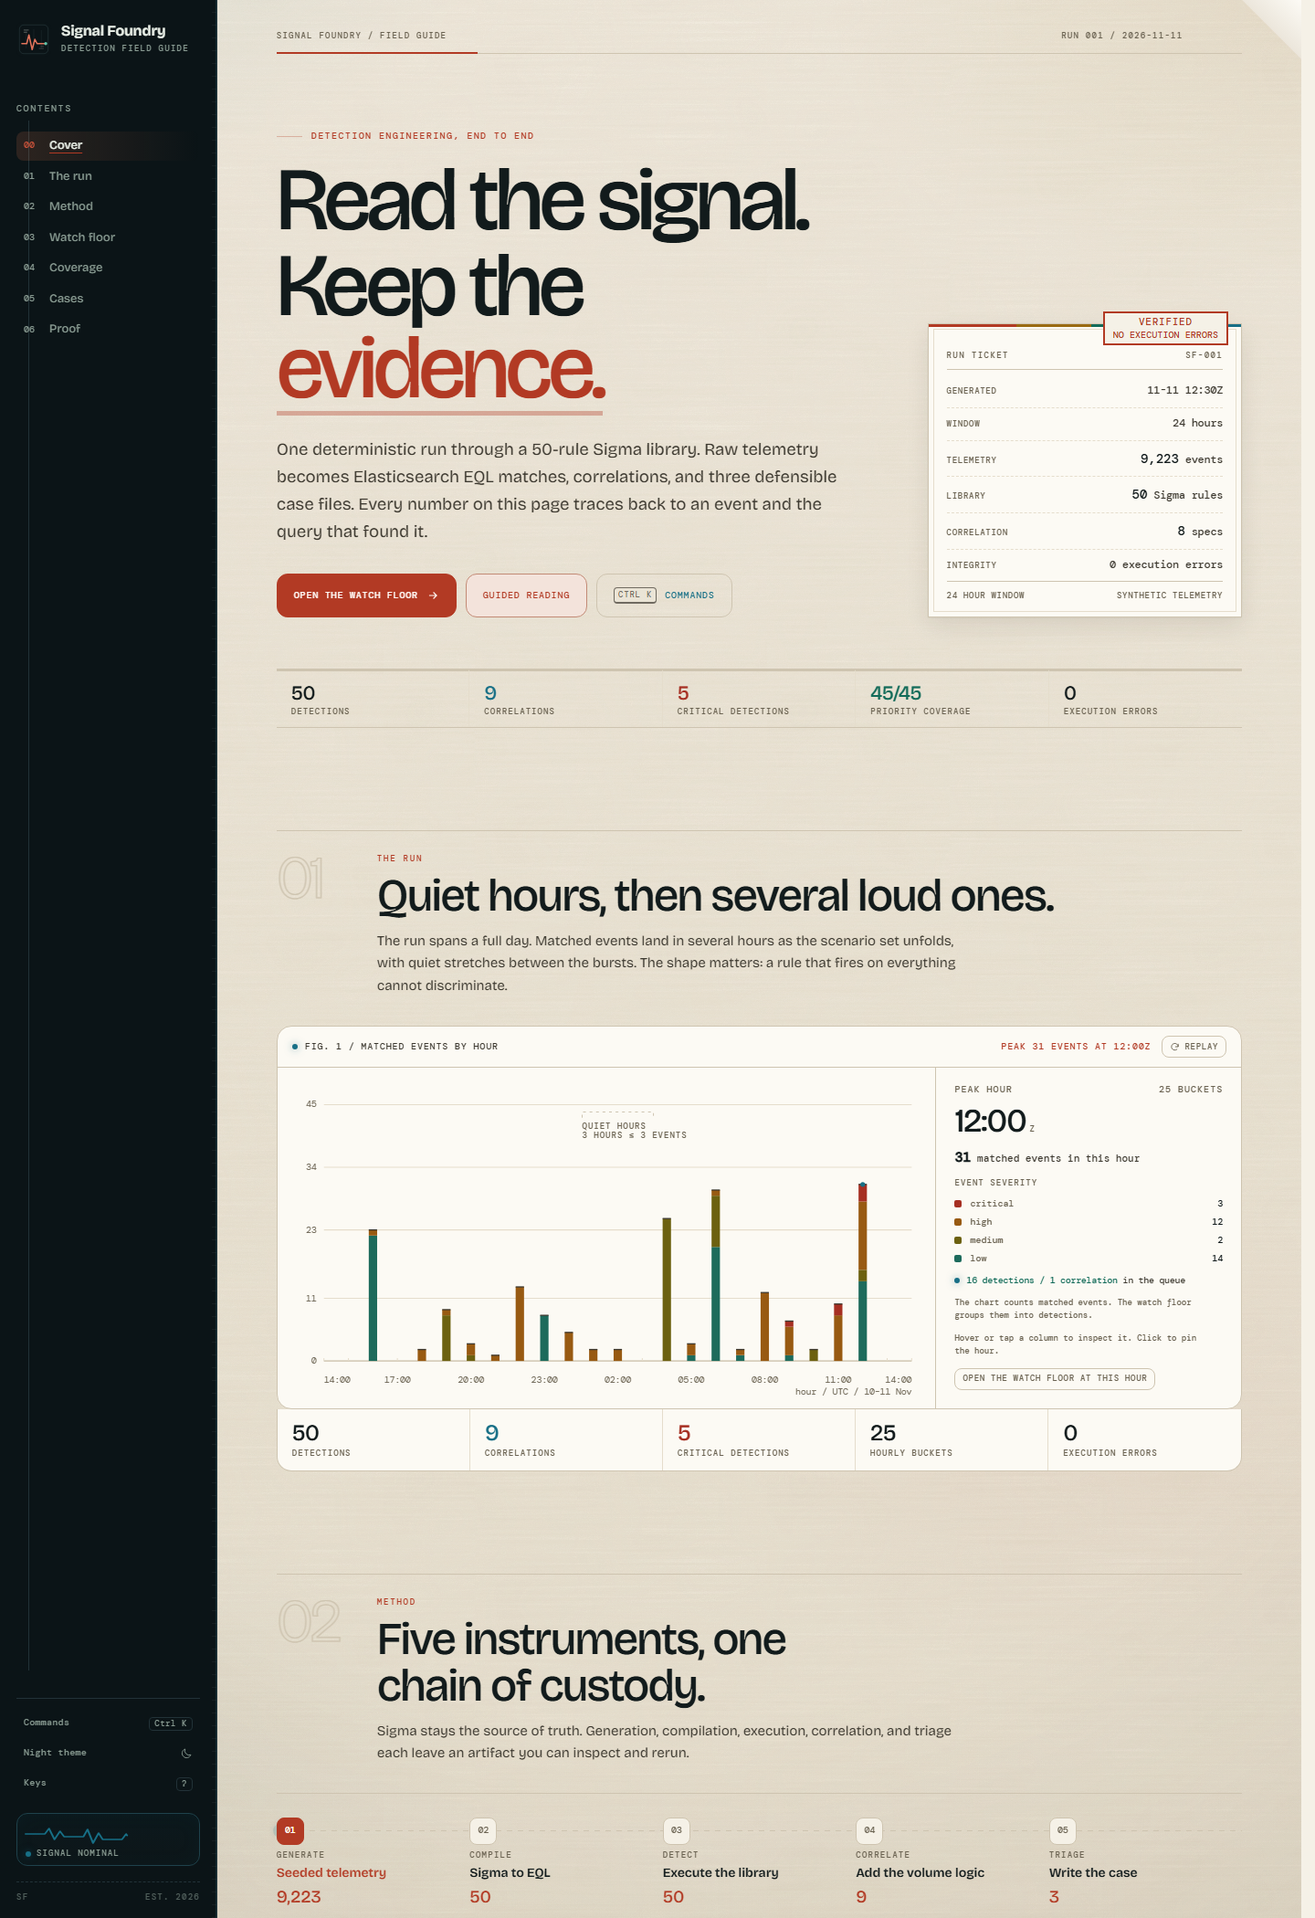
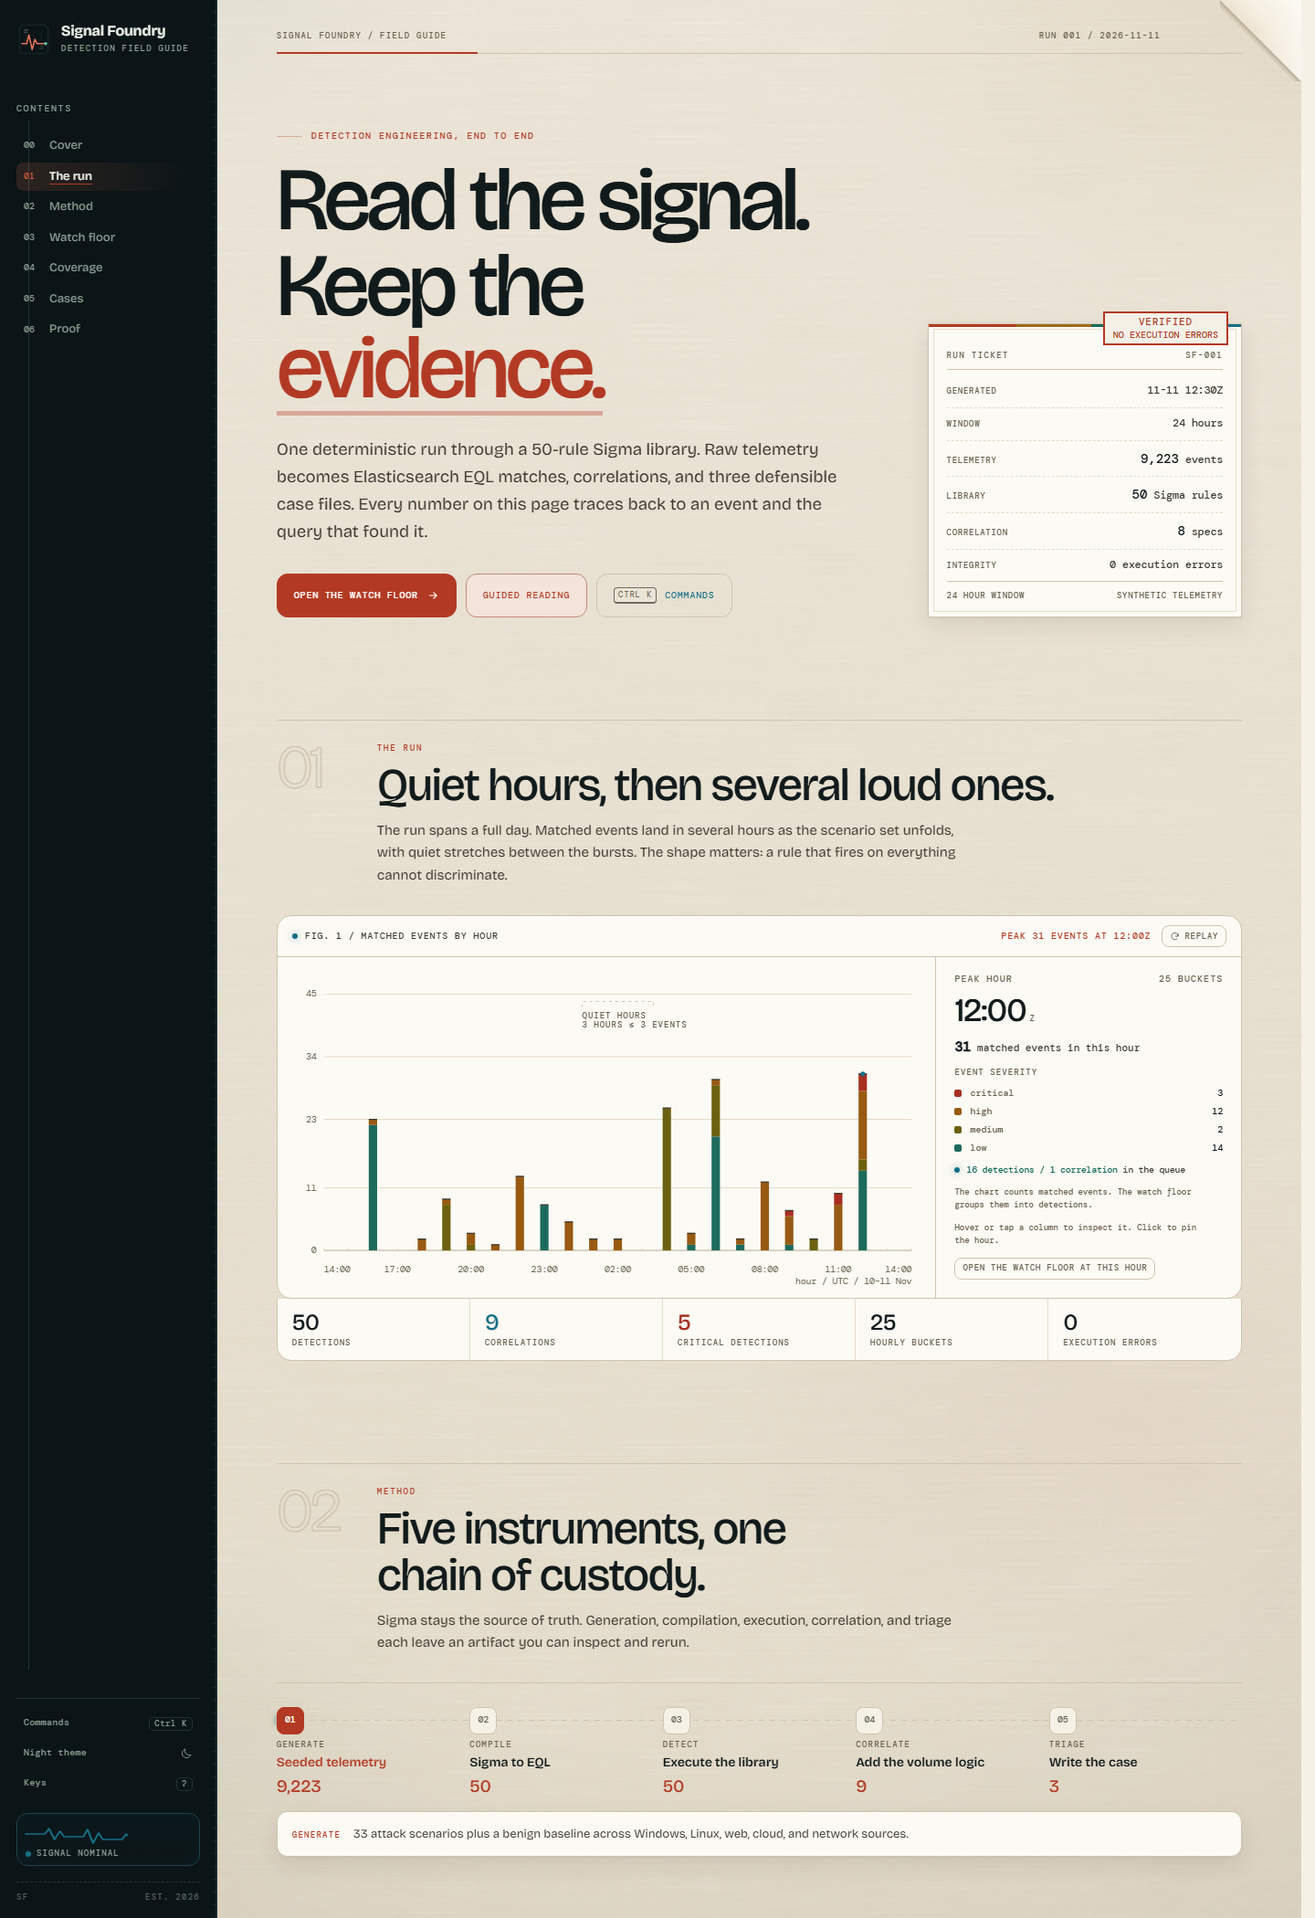
Animate the paper fold and drop the duplicate cover stats
Remove the cover stat row so the run totals appear once, in the run section, and delete the dead cover-foot and cf styles.

Enlarge the folded corner, give it a lit paper-back gradient and a crease shadow, and fold it in on load with a small overshoot. The animation uses transform and opacity only and settles under reduced motion or static capture.

Verified: node --check, pipeline lint, compile --check, coverage --check, report, and 44 pytest tests.

diff --git a/docs/index.html b/docs/index.html
@@ -171,7 +171,7 @@ button { cursor: pointer; }
 ::selection { background: var(--rust); color: #fbf6ea; }
 
 /* Typography: numbers stay put, prose wraps without orphans. */
-.cf b, .fact b, .ro-hour, .ro-total b, .coverage-score b, .tactic-count,
+.fact b, .ro-hour, .ro-total b, .coverage-score b, .tactic-count,
 .path-count, .ticket-rows dd, .ticket-rows dd b, .case-id, .case-foot,
 .row-meta, .row-index, .ledger-count, .event-head, .file-grid dd,
 .chart-axis text { font-variant-numeric: tabular-nums; }
@@ -375,7 +375,7 @@ button { cursor: pointer; }
 
 /* -------------------------------------------------------------------- sheet */
 .sheet {
-  --fold: clamp(30px, 4.5vw, 72px);
+  --fold: clamp(46px, 6.2vw, 104px);
   position: relative;
   z-index: 1;
   margin-left: 238px;
@@ -389,12 +389,35 @@ button { cursor: pointer; }
   z-index: 4;
   width: var(--fold);
   height: var(--fold);
-  background: linear-gradient(225deg, color-mix(in srgb, var(--surface) 90%, #fff) 0%, color-mix(in srgb, var(--surface-2) 76%, #a3937a) 100%);
+  background:
+    linear-gradient(315deg, rgba(255, 255, 255, 0.62), transparent 58%),
+    linear-gradient(225deg, #fdfbf5 0%, #f4ecdd 38%, #ded1ba 76%, #c8b99e 100%);
   clip-path: polygon(0 0, 100% 0, 100% 100%);
-  filter: drop-shadow(-3px 4px 4px rgba(74, 55, 30, 0.2));
+  filter: drop-shadow(-4px 5px 5px rgba(74, 55, 30, 0.26));
+  transform-origin: 100% 0;
+  animation: fold-in 1.05s var(--ease) 0.28s both;
   pointer-events: none;
 }
-:root[data-theme="dark"] .sheet::before { display: none; }
+.sheet::after {
+  content: "";
+  position: absolute;
+  top: 0;
+  right: 0;
+  z-index: 3;
+  width: var(--fold);
+  height: var(--fold);
+  background: linear-gradient(
+    225deg,
+    transparent 47.4%,
+    rgba(74, 55, 30, 0.34) 49.8%,
+    rgba(74, 55, 30, 0.12) 52.6%,
+    transparent 55.4%
+  );
+  animation: fold-crease 1.05s var(--ease) 0.28s both;
+  pointer-events: none;
+}
+:root[data-theme="dark"] .sheet::before,
+:root[data-theme="dark"] .sheet::after { display: none; }
 .cover, .chapter, .colophon { max-width: 1120px; margin: 0 auto; }
 .scroll-progress {
   position: fixed;
@@ -490,7 +513,6 @@ button { cursor: pointer; }
 .kicker { animation: rise-soft 0.7s var(--ease) both; }
 .lede { animation: rise-soft 0.85s var(--ease) 0.34s both; }
 .cover-actions { animation: rise-soft 0.85s var(--ease) 0.44s both; }
-.cover-foot { animation: rise-soft 0.85s var(--ease) 0.58s both; }
 .lede {
   max-width: 54ch;
   margin: 26px 0 0;
@@ -636,30 +658,6 @@ button { cursor: pointer; }
   text-transform: uppercase;
   color: var(--muted);
 }
-.cover-foot {
-  display: flex;
-  flex-wrap: wrap;
-  margin-top: clamp(36px, 5vw, 56px);
-  border-top: 1px solid var(--line);
-  border-bottom: 1px solid var(--line);
-}
-.cf {
-  flex: 1 1 120px;
-  display: flex;
-  flex-direction: column;
-  gap: 5px;
-  padding: 13px 16px 12px;
-  border-right: 1px solid var(--line-soft);
-}
-.cf:nth-child(1) { border-top: 2px solid var(--line); }
-.cf:nth-child(2) { border-top: 2px solid var(--line); }
-.cf:nth-child(3) { border-top: 2px solid var(--line); }
-.cf:nth-child(4) { border-top: 2px solid var(--line); }
-.cf:nth-child(5) { border-top: 2px solid var(--line); }
-.cf:last-child { border-right: 0; }
-.cf b { font: 500 22px/1 "Bricolage Grotesque", sans-serif; letter-spacing: -0.03em; }
-.cf span { font: 500 9px/1 var(--mono); letter-spacing: 0.12em; text-transform: uppercase; color: var(--muted); }
-
 /* ------------------------------------------------------------------ chapter */
 .chapter { padding: clamp(64px, 8vw, 112px) 0 0; scroll-margin-top: 18px; }
 .chapter-head {
@@ -820,9 +818,9 @@ button { cursor: pointer; }
 .fact:last-child { border-right: 0; }
 .fact b { display: block; font: 500 25px/1 "Bricolage Grotesque", sans-serif; letter-spacing: -0.03em; }
 .fact span { display: block; margin-top: 5px; font: 500 9px/1 var(--mono); letter-spacing: 0.12em; text-transform: uppercase; color: var(--muted); }
-.cf b.tone-critical, .fact b.tone-critical { color: var(--critical); }
-.cf b.tone-signal, .fact b.tone-signal { color: var(--signal); }
-.cf b.tone-forest, .fact b.tone-forest { color: var(--forest); }
+.fact b.tone-critical { color: var(--critical); }
+.fact b.tone-signal { color: var(--signal); }
+.fact b.tone-forest { color: var(--forest); }
 
 /* --------------------------------------------------------------------- path */
 .path {
@@ -1790,6 +1788,18 @@ kbd {
 /* ------------------------------------------------------------------- motion */
 @keyframes rise { to { transform: none; } }
 @keyframes rise-soft { from { opacity: 0; transform: translateY(12px); } to { opacity: 1; transform: none; } }
+@keyframes fold-in {
+  0% { opacity: 0; transform: scale(0.05) rotate(-7deg); }
+  16% { opacity: 1; }
+  58% { transform: scale(1.11) rotate(1.6deg); }
+  78% { transform: scale(0.975) rotate(-0.5deg); }
+  100% { opacity: 1; transform: scale(1) rotate(0deg); }
+}
+@keyframes fold-crease {
+  0%, 26% { opacity: 0; }
+  64% { opacity: 1; }
+  100% { opacity: 1; }
+}
 @keyframes ticket-in { from { opacity: 0; transform: translateY(18px); } to { opacity: 1; transform: none; } }
 @keyframes stamp-in { from { opacity: 0; transform: translateY(-4px); } to { opacity: 1; transform: none; } }
 @keyframes fade { from { opacity: 0; } to { opacity: 1; } }
@@ -1974,8 +1984,6 @@ kbd {
   .display { font-size: clamp(42px, 12vw, 66px); }
   .cover-actions { flex-direction: column; align-items: stretch; }
   .cover-actions .btn { justify-content: center; }
-  .cf { flex: 1 1 45%; }
-  .cf:nth-child(2n) { border-right: 0; }
   .fact { flex: 1 1 45%; border-bottom: 1px solid var(--line-soft); }
   .fact:nth-child(2n) { border-right: 0; }
   .fact:nth-last-child(-n + 2) { border-bottom: 0; }
@@ -2003,9 +2011,6 @@ kbd {
 }
 
 @media (max-width: 520px) {
-  .cover-foot { display: grid; grid-template-columns: 1fr 1fr; }
-  .cf { border-bottom: 1px solid var(--line-soft); }
-  .cf:nth-last-child(-n + 2) { border-bottom: 0; }
   .path { grid-template-columns: 1fr; }
   .path-step { display: grid; grid-template-columns: 28px 1fr auto; align-items: center; gap: 4px 10px; padding: 0; }
   .path-step .path-dot { grid-row: 1 / 3; }
@@ -2057,6 +2062,7 @@ kbd {
   body::before { display: none; }
   body::after { display: none; }
   .sheet::before { display: none; }
+  .sheet::after { display: none; }
   .plate, .ledger, .case-card, .terminal, .path-detail { background-image: none; box-shadow: none; }
   .ledger, .ledger-body { max-height: none; overflow: visible; }
   .row .drawer { grid-template-rows: 1fr; opacity: 1; visibility: visible; }
@@ -2170,8 +2176,6 @@ kbd {
         <div class="ticket-foot"><span id="ticketWindow">24 hour window</span><span>Synthetic telemetry</span></div>
       </aside>
     </div>
-
-    <div class="cover-foot" id="coverFoot" aria-label="Run totals"></div>
   </header>
 
   <section class="chapter" id="run">
@@ -2636,17 +2640,6 @@ kbd {
   $("#railEvents").dataset.count = String(meta.events_indexed || 0);
   $("#railRules").dataset.count = String(meta.sigma_rules || 0);
   $("#railCorr").dataset.count = String(meta.correlation_specs || 0);
-
-  const coverFacts = [
-    { value: number((DATA.alerts || []).length), label: "detections", tone: "" },
-    { value: number((DATA.correlations || []).length), label: "correlations", tone: "signal" },
-    { value: number(severity.critical || 0), label: "critical detections", tone: "critical" },
-    { value: (meta.covered_priority || 0) + "/" + (meta.priority_techniques || 0), label: "priority coverage", tone: "forest" },
-    { value: number(errors.length), label: "execution errors", tone: "" }
-  ];
-  $("#coverFoot").innerHTML = coverFacts.map((fact) => (
-    '<div class="cf"><b' + (fact.tone ? ' class="tone-' + fact.tone + '"' : "") + '>' + esc(fact.value) + "</b><span>" + esc(fact.label) + "</span></div>"
-  )).join("");
 
   const timeline = (DATA.timeline || []).filter((row) => row && row.hour);
   const factLine = [

diff --git a/dashboard/styles.css b/dashboard/styles.css
@@ -148,7 +148,7 @@ button { cursor: pointer; }
 ::selection { background: var(--rust); color: #fbf6ea; }
 
 /* Typography: numbers stay put, prose wraps without orphans. */
-.cf b, .fact b, .ro-hour, .ro-total b, .coverage-score b, .tactic-count,
+.fact b, .ro-hour, .ro-total b, .coverage-score b, .tactic-count,
 .path-count, .ticket-rows dd, .ticket-rows dd b, .case-id, .case-foot,
 .row-meta, .row-index, .ledger-count, .event-head, .file-grid dd,
 .chart-axis text { font-variant-numeric: tabular-nums; }
@@ -352,7 +352,7 @@ button { cursor: pointer; }
 
 /* -------------------------------------------------------------------- sheet */
 .sheet {
-  --fold: clamp(30px, 4.5vw, 72px);
+  --fold: clamp(46px, 6.2vw, 104px);
   position: relative;
   z-index: 1;
   margin-left: 238px;
@@ -366,12 +366,35 @@ button { cursor: pointer; }
   z-index: 4;
   width: var(--fold);
   height: var(--fold);
-  background: linear-gradient(225deg, color-mix(in srgb, var(--surface) 90%, #fff) 0%, color-mix(in srgb, var(--surface-2) 76%, #a3937a) 100%);
+  background:
+    linear-gradient(315deg, rgba(255, 255, 255, 0.62), transparent 58%),
+    linear-gradient(225deg, #fdfbf5 0%, #f4ecdd 38%, #ded1ba 76%, #c8b99e 100%);
   clip-path: polygon(0 0, 100% 0, 100% 100%);
-  filter: drop-shadow(-3px 4px 4px rgba(74, 55, 30, 0.2));
+  filter: drop-shadow(-4px 5px 5px rgba(74, 55, 30, 0.26));
+  transform-origin: 100% 0;
+  animation: fold-in 1.05s var(--ease) 0.28s both;
   pointer-events: none;
 }
-:root[data-theme="dark"] .sheet::before { display: none; }
+.sheet::after {
+  content: "";
+  position: absolute;
+  top: 0;
+  right: 0;
+  z-index: 3;
+  width: var(--fold);
+  height: var(--fold);
+  background: linear-gradient(
+    225deg,
+    transparent 47.4%,
+    rgba(74, 55, 30, 0.34) 49.8%,
+    rgba(74, 55, 30, 0.12) 52.6%,
+    transparent 55.4%
+  );
+  animation: fold-crease 1.05s var(--ease) 0.28s both;
+  pointer-events: none;
+}
+:root[data-theme="dark"] .sheet::before,
+:root[data-theme="dark"] .sheet::after { display: none; }
 .cover, .chapter, .colophon { max-width: 1120px; margin: 0 auto; }
 .scroll-progress {
   position: fixed;
@@ -467,7 +490,6 @@ button { cursor: pointer; }
 .kicker { animation: rise-soft 0.7s var(--ease) both; }
 .lede { animation: rise-soft 0.85s var(--ease) 0.34s both; }
 .cover-actions { animation: rise-soft 0.85s var(--ease) 0.44s both; }
-.cover-foot { animation: rise-soft 0.85s var(--ease) 0.58s both; }
 .lede {
   max-width: 54ch;
   margin: 26px 0 0;
@@ -613,30 +635,6 @@ button { cursor: pointer; }
   text-transform: uppercase;
   color: var(--muted);
 }
-.cover-foot {
-  display: flex;
-  flex-wrap: wrap;
-  margin-top: clamp(36px, 5vw, 56px);
-  border-top: 1px solid var(--line);
-  border-bottom: 1px solid var(--line);
-}
-.cf {
-  flex: 1 1 120px;
-  display: flex;
-  flex-direction: column;
-  gap: 5px;
-  padding: 13px 16px 12px;
-  border-right: 1px solid var(--line-soft);
-}
-.cf:nth-child(1) { border-top: 2px solid var(--line); }
-.cf:nth-child(2) { border-top: 2px solid var(--line); }
-.cf:nth-child(3) { border-top: 2px solid var(--line); }
-.cf:nth-child(4) { border-top: 2px solid var(--line); }
-.cf:nth-child(5) { border-top: 2px solid var(--line); }
-.cf:last-child { border-right: 0; }
-.cf b { font: 500 22px/1 "Bricolage Grotesque", sans-serif; letter-spacing: -0.03em; }
-.cf span { font: 500 9px/1 var(--mono); letter-spacing: 0.12em; text-transform: uppercase; color: var(--muted); }
-
 /* ------------------------------------------------------------------ chapter */
 .chapter { padding: clamp(64px, 8vw, 112px) 0 0; scroll-margin-top: 18px; }
 .chapter-head {
@@ -797,9 +795,9 @@ button { cursor: pointer; }
 .fact:last-child { border-right: 0; }
 .fact b { display: block; font: 500 25px/1 "Bricolage Grotesque", sans-serif; letter-spacing: -0.03em; }
 .fact span { display: block; margin-top: 5px; font: 500 9px/1 var(--mono); letter-spacing: 0.12em; text-transform: uppercase; color: var(--muted); }
-.cf b.tone-critical, .fact b.tone-critical { color: var(--critical); }
-.cf b.tone-signal, .fact b.tone-signal { color: var(--signal); }
-.cf b.tone-forest, .fact b.tone-forest { color: var(--forest); }
+.fact b.tone-critical { color: var(--critical); }
+.fact b.tone-signal { color: var(--signal); }
+.fact b.tone-forest { color: var(--forest); }
 
 /* --------------------------------------------------------------------- path */
 .path {
@@ -1767,6 +1765,18 @@ kbd {
 /* ------------------------------------------------------------------- motion */
 @keyframes rise { to { transform: none; } }
 @keyframes rise-soft { from { opacity: 0; transform: translateY(12px); } to { opacity: 1; transform: none; } }
+@keyframes fold-in {
+  0% { opacity: 0; transform: scale(0.05) rotate(-7deg); }
+  16% { opacity: 1; }
+  58% { transform: scale(1.11) rotate(1.6deg); }
+  78% { transform: scale(0.975) rotate(-0.5deg); }
+  100% { opacity: 1; transform: scale(1) rotate(0deg); }
+}
+@keyframes fold-crease {
+  0%, 26% { opacity: 0; }
+  64% { opacity: 1; }
+  100% { opacity: 1; }
+}
 @keyframes ticket-in { from { opacity: 0; transform: translateY(18px); } to { opacity: 1; transform: none; } }
 @keyframes stamp-in { from { opacity: 0; transform: translateY(-4px); } to { opacity: 1; transform: none; } }
 @keyframes fade { from { opacity: 0; } to { opacity: 1; } }
@@ -1951,8 +1961,6 @@ kbd {
   .display { font-size: clamp(42px, 12vw, 66px); }
   .cover-actions { flex-direction: column; align-items: stretch; }
   .cover-actions .btn { justify-content: center; }
-  .cf { flex: 1 1 45%; }
-  .cf:nth-child(2n) { border-right: 0; }
   .fact { flex: 1 1 45%; border-bottom: 1px solid var(--line-soft); }
   .fact:nth-child(2n) { border-right: 0; }
   .fact:nth-last-child(-n + 2) { border-bottom: 0; }
@@ -1980,9 +1988,6 @@ kbd {
 }
 
 @media (max-width: 520px) {
-  .cover-foot { display: grid; grid-template-columns: 1fr 1fr; }
-  .cf { border-bottom: 1px solid var(--line-soft); }
-  .cf:nth-last-child(-n + 2) { border-bottom: 0; }
   .path { grid-template-columns: 1fr; }
   .path-step { display: grid; grid-template-columns: 28px 1fr auto; align-items: center; gap: 4px 10px; padding: 0; }
   .path-step .path-dot { grid-row: 1 / 3; }
@@ -2034,6 +2039,7 @@ kbd {
   body::before { display: none; }
   body::after { display: none; }
   .sheet::before { display: none; }
+  .sheet::after { display: none; }
   .plate, .ledger, .case-card, .terminal, .path-detail { background-image: none; box-shadow: none; }
   .ledger, .ledger-body { max-height: none; overflow: visible; }
   .row .drawer { grid-template-rows: 1fr; opacity: 1; visibility: visible; }

diff --git a/dashboard/app.js b/dashboard/app.js
@@ -184,17 +184,6 @@
   $("#railRules").dataset.count = String(meta.sigma_rules || 0);
   $("#railCorr").dataset.count = String(meta.correlation_specs || 0);
 
-  const coverFacts = [
-    { value: number((DATA.alerts || []).length), label: "detections", tone: "" },
-    { value: number((DATA.correlations || []).length), label: "correlations", tone: "signal" },
-    { value: number(severity.critical || 0), label: "critical detections", tone: "critical" },
-    { value: (meta.covered_priority || 0) + "/" + (meta.priority_techniques || 0), label: "priority coverage", tone: "forest" },
-    { value: number(errors.length), label: "execution errors", tone: "" }
-  ];
-  $("#coverFoot").innerHTML = coverFacts.map((fact) => (
-    '<div class="cf"><b' + (fact.tone ? ' class="tone-' + fact.tone + '"' : "") + '>' + esc(fact.value) + "</b><span>" + esc(fact.label) + "</span></div>"
-  )).join("");
-
   const timeline = (DATA.timeline || []).filter((row) => row && row.hour);
   const factLine = [
     { value: number((DATA.alerts || []).length), label: "detections", tone: "" },

diff --git a/dashboard/template.html b/dashboard/template.html
@@ -111,8 +111,6 @@
         <div class="ticket-foot"><span id="ticketWindow">24 hour window</span><span>Synthetic telemetry</span></div>
       </aside>
     </div>
-
-    <div class="cover-foot" id="coverFoot" aria-label="Run totals"></div>
   </header>
 
   <section class="chapter" id="run">

diff --git a/docs/design.md b/docs/design.md
@@ -63,13 +63,13 @@ component library.
 - **Paper neutrals are warm and light.** Background, surface, rules, and muted
   text share one paper scale, so cards and coverage tiles sit on the page
   instead of reading grey-green.
-- **Stat numbers keep the original hierarchy.** Detections and execution errors
-  use the primary ink; correlations, critical detections, and priority coverage
-  keep their single accent. The row is not five separate colours.
-- **One accent per rule.** Section rules and the cover stat strip use one accent
-  or a neutral line each. The watch floor has no rule above its status band; the
-  band itself is a tinted paper strip. The only four-color gradient left is the
-  band on the run ticket.
+- **Stat numbers keep the original hierarchy.** On the run stat line, detections
+  and execution errors use the primary ink; correlations, critical detections,
+  and priority coverage keep their single accent. The line is not five separate
+  colours, and it appears once: the cover does not repeat it.
+- **One accent per rule.** Section rules use one accent or a neutral line each.
+  The watch floor has no rule above its status band; the band itself is a tinted
+  paper strip. The only four-color gradient left is the band on the run ticket.
 - **Coverage tiles use `--tile`, a toned-down white.** It is lighter than the
   page but not a bright white, so a low-priority tile such as `T1595.002` reads
   as paper rather than grey.
@@ -77,8 +77,12 @@ component library.
   `--surface` and `--surface-2`, and stretches to the full height of the queue,
   so the right side stays close to the queue without leaving a blank gap before
   the host lanes.
-- **The sheet has a folded corner.** A small dog-ear sits at the top right of
-  the paper theme, with the run line inset so the fold never covers it.
+- **The sheet has a folded corner.** A dog-ear of `clamp(46px, 6.2vw, 104px)`
+  sits at the top right of the paper theme, with a lit paper-back gradient, a
+  crease shadow, and the run line inset so the fold never covers it. It folds in
+  on load: the flap scales and rotates out of the corner with a small overshoot,
+  while the crease shadow fades in. The animation is transform and opacity only,
+  and settles to its final state under reduced motion or static capture.
 - **Night ticket paper** is `#eef1ea` with `#121b1c` ink. It is a physical
   receipt on the dark desk, not a dark panel.
 
